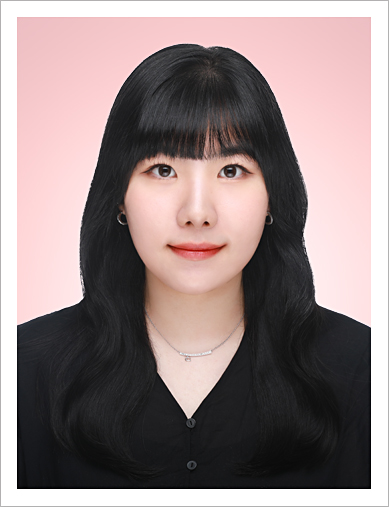
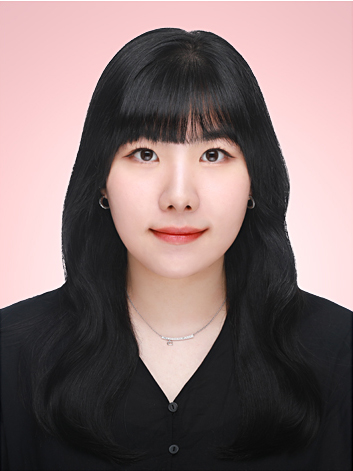
동화약품 모바일 프로필 수정-0325

diff --git a/index.html b/index.html
@@ -126,6 +126,7 @@
                             <div class="textBox1">
                                 <p>동화약품</p>
                                 <p><a href="https://flxmf1122.mycafe24.com/" target="_blank" alt="동화약품 사이트 바로가기">visit page</a></p>
+                                <p><a href="https://mobile-project-c357e.web.app/" target="_blank" alt="동화약품 모바일사이트 바로가기">visit page</a></p>
                             </div>
                             <div class="textBox2">
                                 <ul>
@@ -175,39 +176,38 @@
                      </div>
                  </div>
             </div>
-            <div class="section" id="section3">
+            <!-- <div class="section" id="section3">
                 <h2 class="hidden">SPA(mobile)</h2>
                 <div class="fix_Box"></div>
                 <div class="line"></div>
                 <div class="box tip2">
                     <div class="mobileWeb">
                        <div class="img_box">
-                         <img class="pc" src="./images/pc.png" alt="모니터 이미지">
+                         <img class="pc" src="./images/mobile.png" alt="모니터 이미지">
                          <img class="gif" src="./images/donghwa.gif" alt="동화약품 모니터 gif">
                        </div>
-                       <div class="start">모바일 추후업로드 예정</div>
                        <div class="text_box">
                         <p>기업형 포트폴리오</p>
                             <div class="textBox1">
-                                <p>동화약품</p>
-                                <p>visit page</p>
+                                <p>동화약품 - mobile</p>
+                                <p><a href="https://mobile-project-c357e.web.app/" target="_blank" alt="동화약품 모바일사이트 바로가기">visit page</a></p>
                             </div>
                             <div class="textBox2">
                                 <ul>
                                     <li><span class="material-symbols-outlined">check_small</span>
-                                        Html5 이전 방식으로 제작된 기존의 <span class="color_ch">동화약품 기업 웹사이트 리뉴얼 프로젝트</span></li>
+                                        리뉴얼한 <span class="color_ch">기업형 PC버전을 모바일 환경에 적합한 UI로 새롭게 구현 </span>한 모바일 웹사이트</li>
                                     <li><span class="material-symbols-outlined">check_small</span>
-                                        heading 태그의 부재와 이미지의 alt 속성 누락 등의 문제점 파악</li>
+                                        모바일 환경에 맞춰 터치 이벤트를 중점적으로 구성하고, 2단 이하의 레이아웃을 채택</li>
                                     <li><span class="material-symbols-outlined">check_small</span>
-                                        <span class="color_ch">기업의 전통적이고 오래된 이미지를 벗어나, 트렌드에 맞는 UI 디자인으로 리뉴얼</span></li>
+                                        swiper 슬라이더 플러그인 적용</li>
                                     <li><span class="material-symbols-outlined">check_small</span>
-                                        W3C의 마크업 검증, CSS 검사, 웹 접근성 검사 모두 통과 완료</li>
+                                        gnb 영역에 햄버거 메뉴를 배치하고 아코디언 기능을 적용</li>
                                 </ul>
                             </div>
                             <div class="textBox3">
                                 <dl>
                                 <dt>제작기간</dt>
-                                <dd>약 1개월</dd>
+                                <dd>약 2주</dd>
                                 </dl>
                                 <dl>
                                 <dt>제작인원</dt>
@@ -240,7 +240,7 @@
                      </div>
                  </div>
                    
-             </div>
+             </div> -->
             <div class="section" id="section4">
                 <h2 class="hidden">RESPONSIVE</h2>
                 <div class="fix_Box"></div>

diff --git a/css/style.css b/css/style.css
@@ -36,7 +36,7 @@ body{max-width: 2000px; min-width: 1900px; margin: 0 auto;}
 
 .pf_box{margin: 0 auto; display: flex; align-items: center; gap: 50px;}
 .pf_photo{margin-left: 8%; display: flex; align-items: center; flex-direction: column;}
-.pf_photo>div{ background: url(../images/JHR.jpeg) no-repeat; background-position: center; object-fit: cover; width: 250px; height: 330px;}
+.pf_photo>div{background: url(../images/JHR.jpg) no-repeat; background-position: center; object-fit: cover; background-size: cover;  width: 250px; height: 330px;}
 .pf_click{margin-top: 20px; width: 100%; font-weight: 500; text-align: center; font-size: 1.3rem;}
 .pf_click li a{text-align: center; justify-content: center; display: flex; border: 1px solid #ccc; border-radius: 20px; transition: all .5s ease-out; margin-bottom: 15px; padding: 5px;}
 .pf_click li a span{display: none;}
@@ -70,6 +70,9 @@ body{max-width: 2000px; min-width: 1900px; margin: 0 auto;}
 .web .textBox1 p:nth-of-type(2) a{border-radius: 10px; margin-top: 7px; padding: 5px 20px; border: 1px solid #ccc;
     transition: all .5s ease-out;}
 .web .textBox1 p:nth-of-type(2):hover a{background: #F4911D; color: #fff;}
+.web .textBox1 p:nth-of-type(3) a{border-radius: 10px; margin-top: 7px; padding: 5px 20px; border: 1px solid #ccc;
+    transition: all .5s ease-out;}
+.web .textBox1 p:nth-of-type(3):hover a{background: #F4911D; color: #fff;}
 
 .web .textBox2{border-bottom: 2px solid #ccc; padding-bottom: 10px;}
 .web .textBox2 ul li{margin-bottom: 5px; }

diff --git a/resume/resume.css b/resume/resume.css
@@ -31,7 +31,7 @@ img { border: 0; vertical-align: top; width: 100%;}
 .wrap { overflow: hidden;}
 
 /* header */
-header .image {overflow: hidden; margin: 0 auto; width: 20%; border-radius: 50%;}
+header .image {overflow: hidden; margin: 0 auto; width: 20%; border-radius: 50%}
 header .head_main {display: flex; flex-direction: column; padding: 5% 10%; column-gap: 10%; text-align: center;}
 header .head_ttl h2 { font-size: 3rem; margin-top: 20px;}
 header .head_ttl>span { display: block; font-size: 1.25rem; font-weight: 400; margin-bottom: 20px;}
